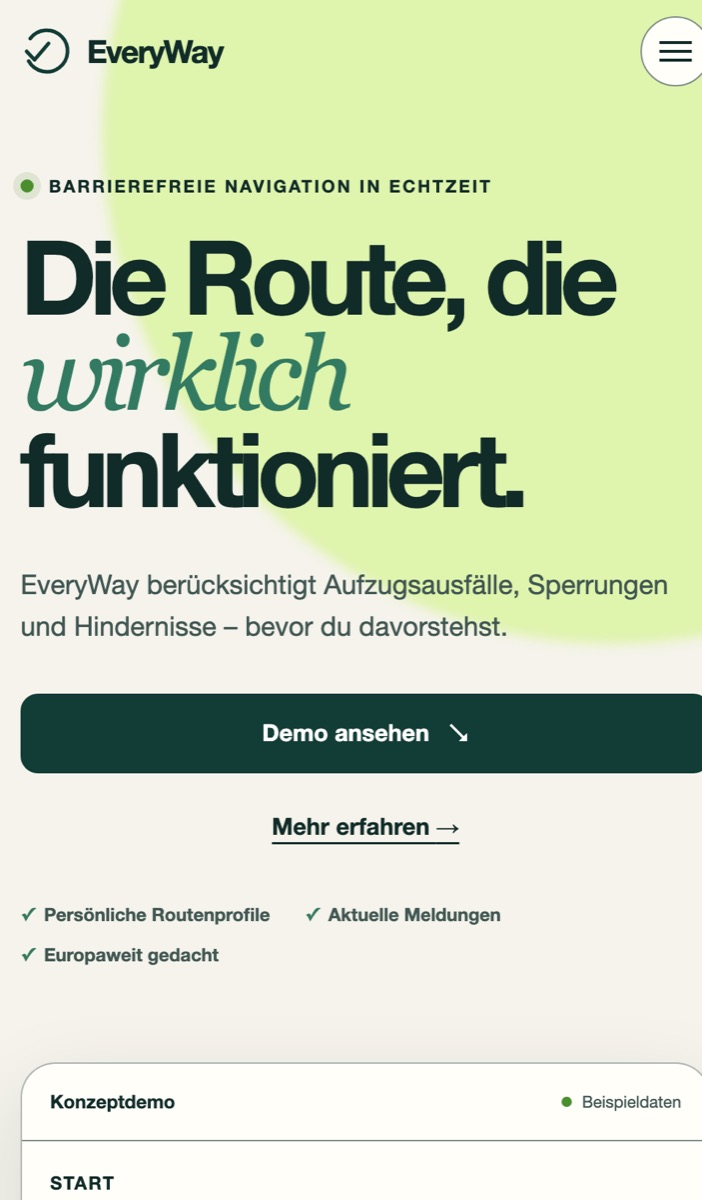
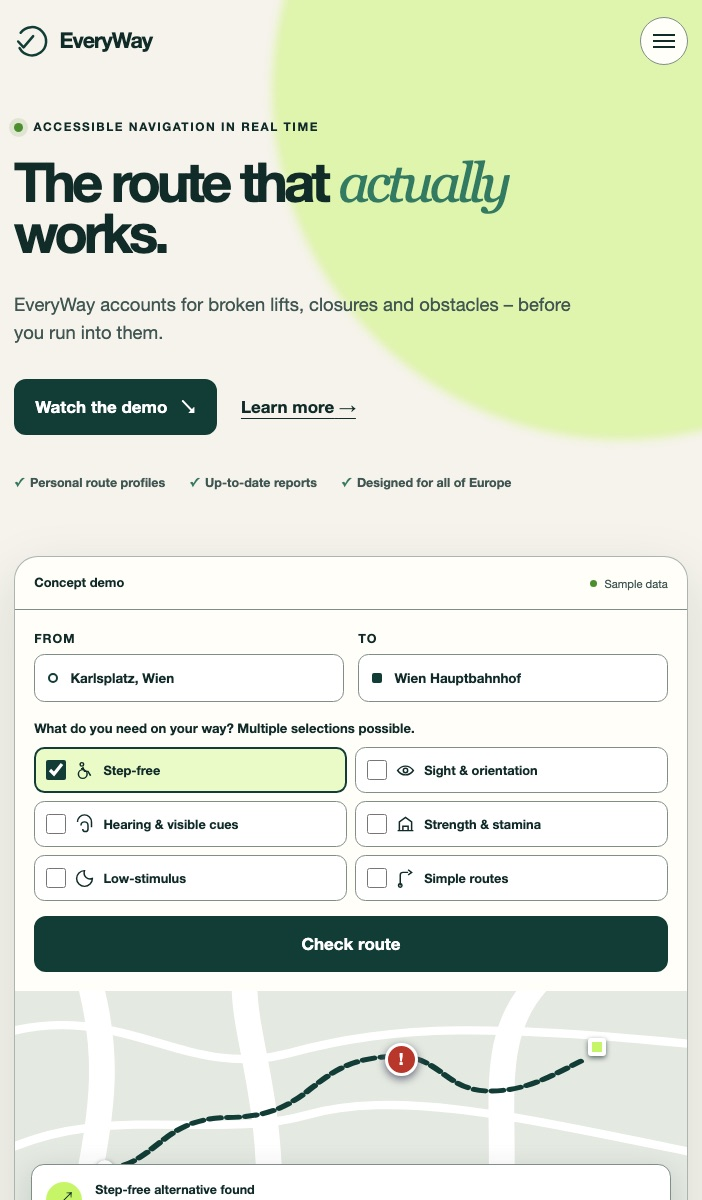
Replace the German EveryWay screenshot with the English one
Taken from the deployed origin content, so it matches what the site
serves once the stale Cloudflare copy of script.js expires.

diff --git a/index.html b/index.html
@@ -1186,7 +1186,7 @@
 
         <article class="project-card">
           <figure class="project-img">
-            <img src="/images/everyway.jpg" alt="Screenshot of the EveryWay concept site" loading="lazy">
+            <img src="/images/everyway.jpg" alt="The EveryWay concept demo, with six route profiles and a step-free alternative around a broken lift" loading="lazy">
           </figure>
           <div class="project-body">
             <div class="project-badge">Concept &middot; Concept phase</div>
